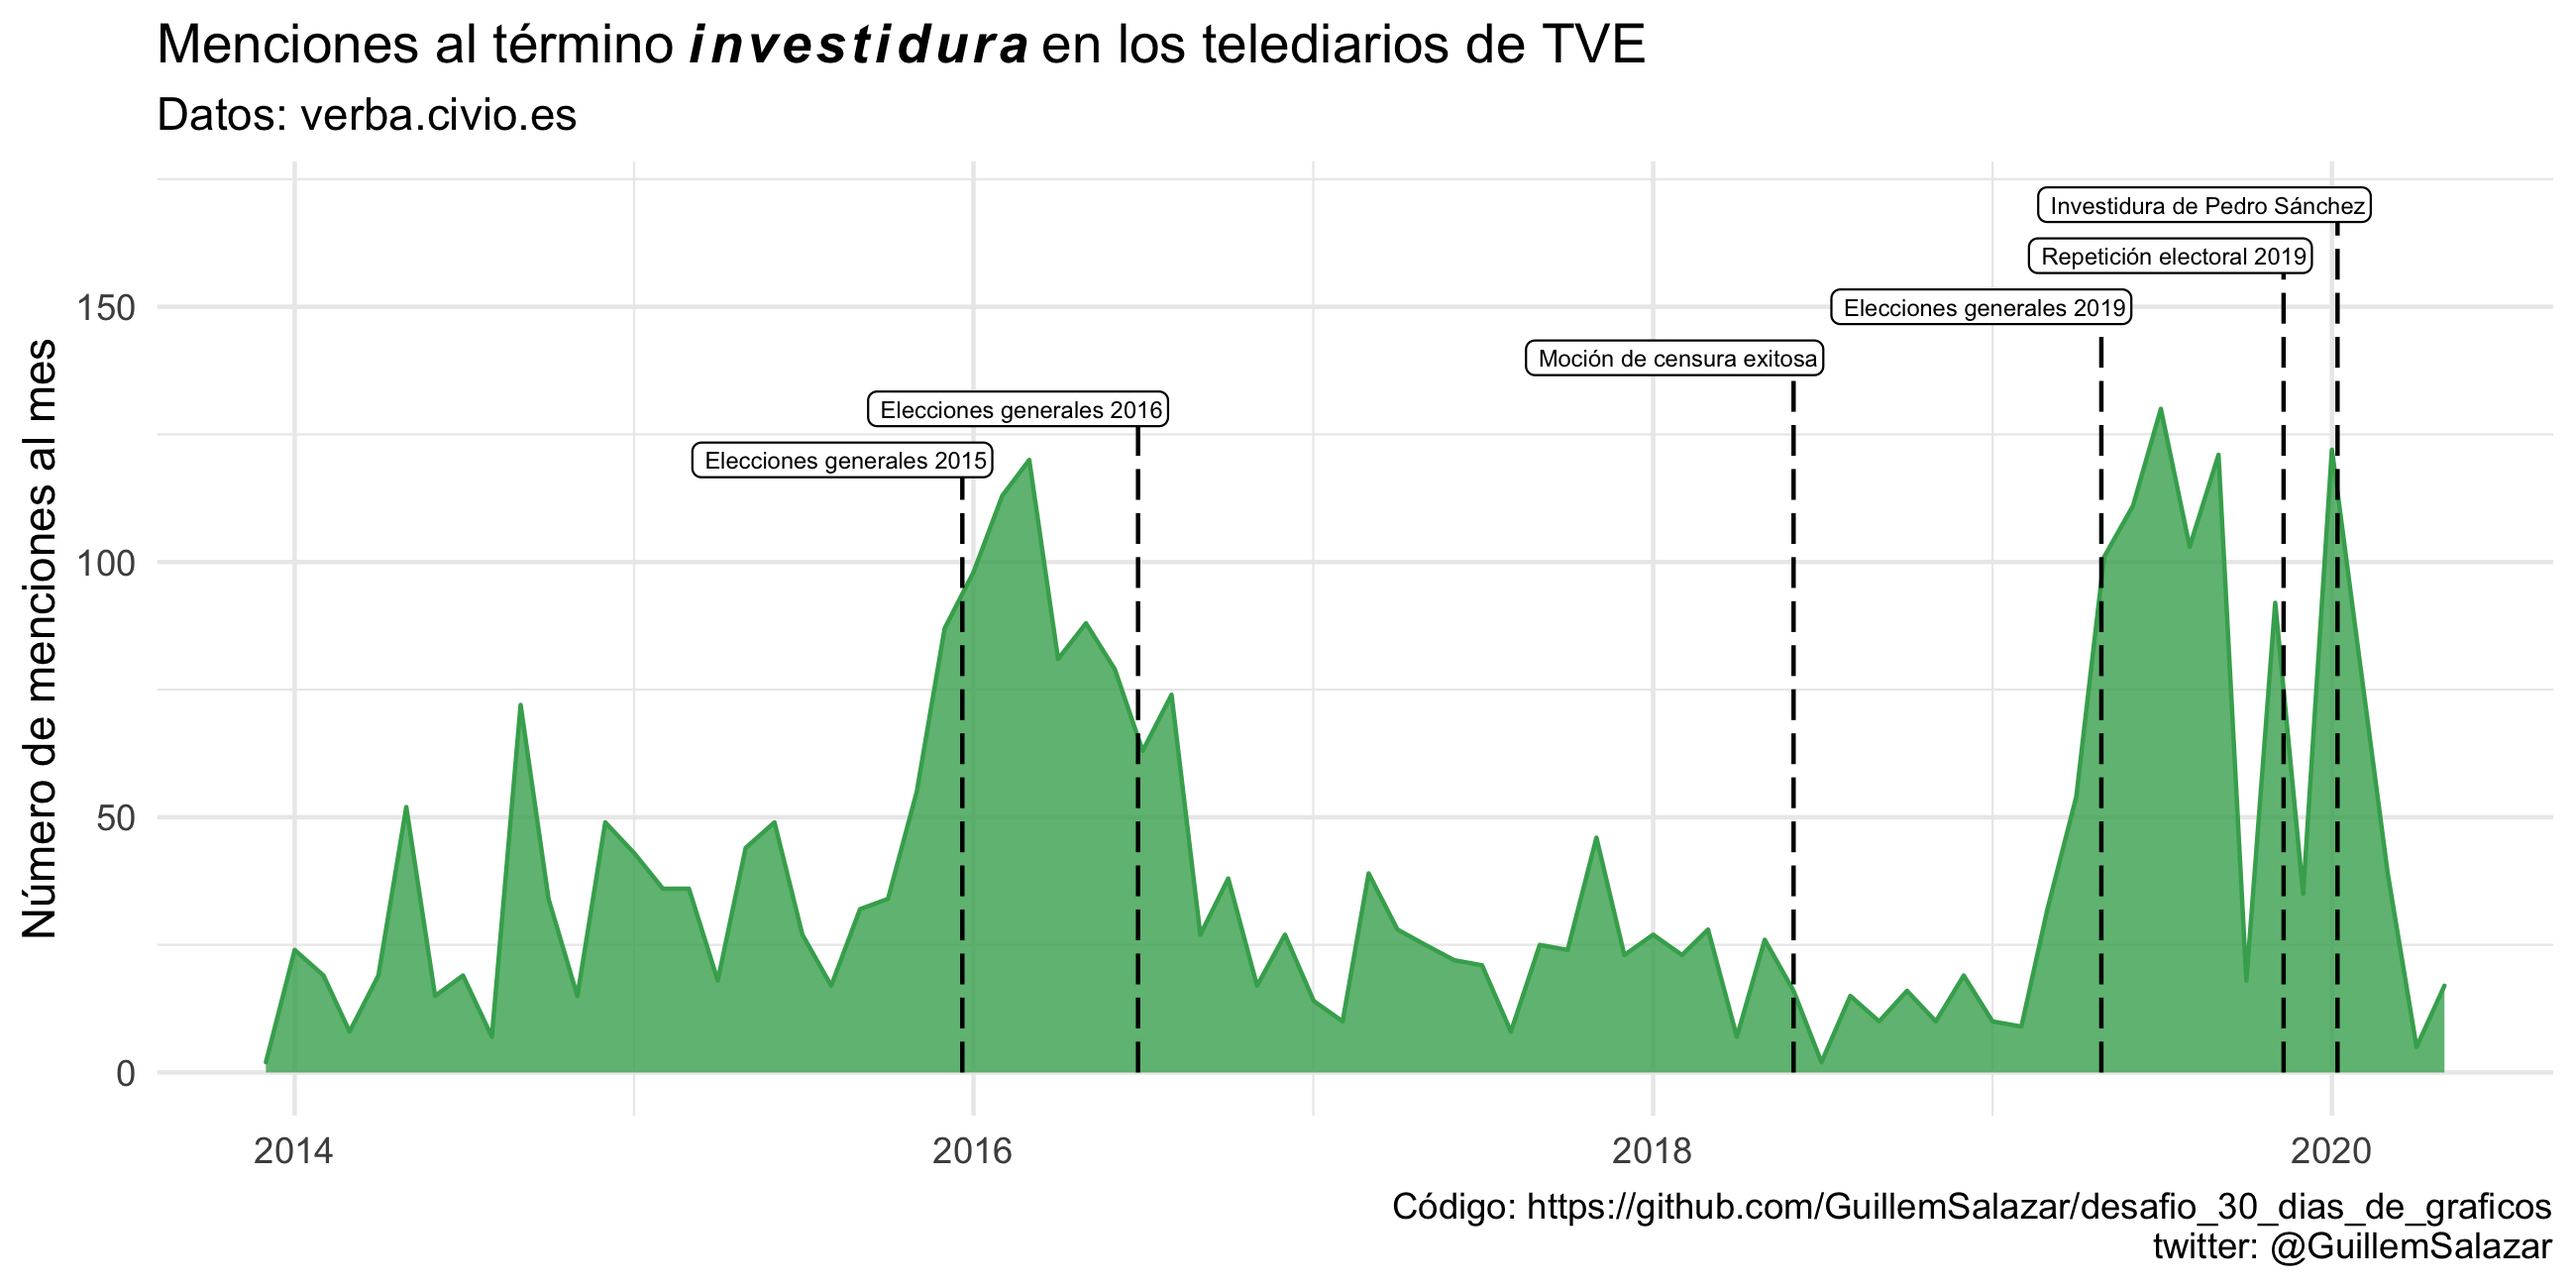
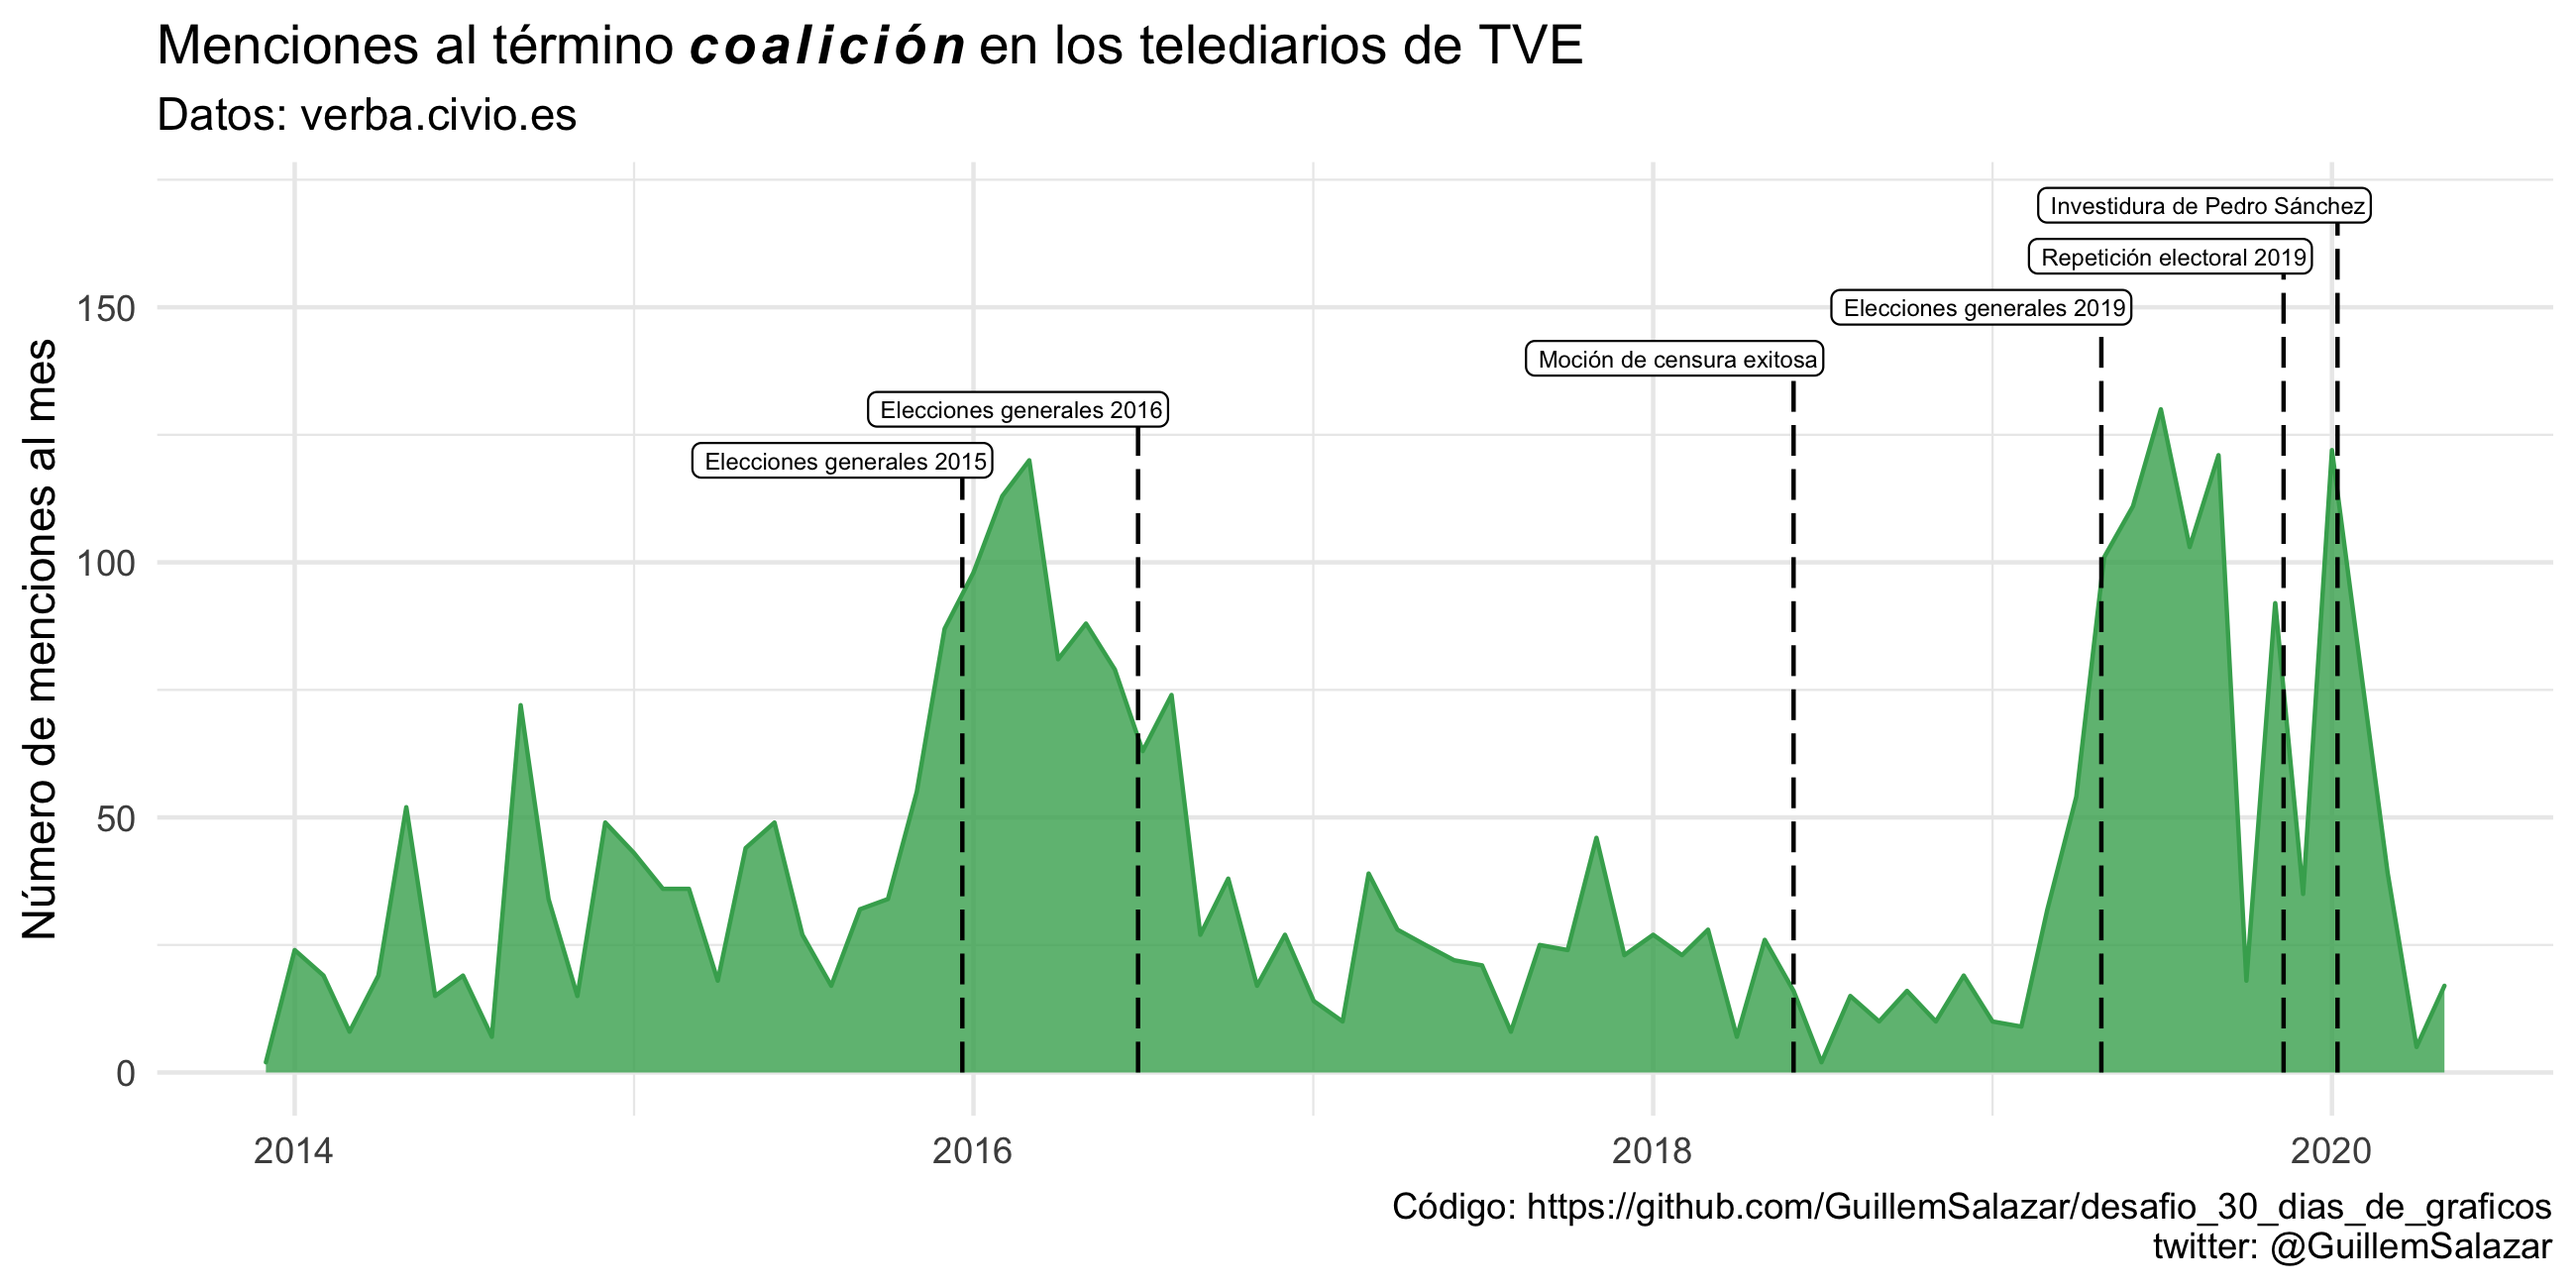
Día 21

diff --git a/README.md b/README.md
@@ -143,7 +143,7 @@ Mis contribuciones al desafío [*#30díasdegráficos*](https://github.com/cienci
 
 ![Día 20](images/dia_20.png)
 
-### Día 21: Gráficos con anotaciones (Menciones al término *investidura* en los telediarios de TVE)
+### Día 21: Gráficos con anotaciones (Menciones al término *coalición* en los telediarios de TVE)
 
 - Datos disponibles [aquí](https://verba.civio.es)
 - Consulta el código [aquí](code/dia_21.R)
